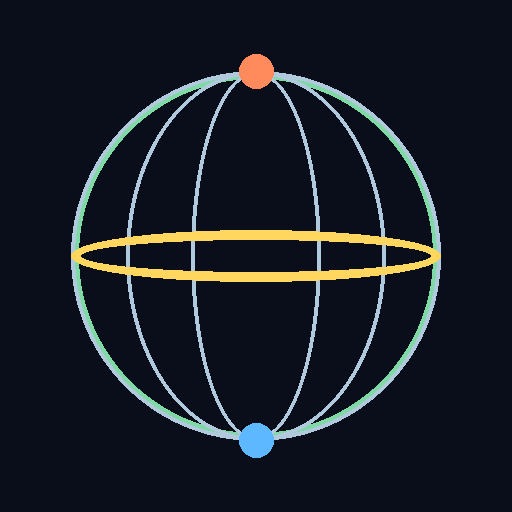
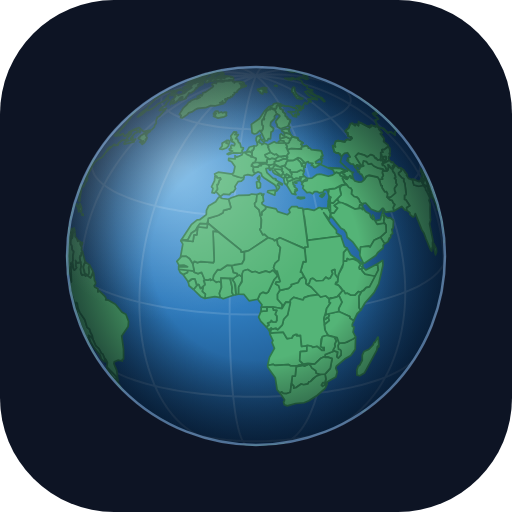
Icono de globo terracueo y capturas de pantalla
- Reemplaza los iconos por un globo terrestre: mismo motor de proyeccion
  ortografica de la app, continents generados desde RINGS_RAW
- Nuevo icon-512-maskable.png con la zona segura de Android; el manifiesto
  ya no declara el mismo archivo como any y maskable a la vez
- sw.js: cache v2 + el asset nuevo en ASSETS
- README: seccion de capturas y tabla de archivos al dia

diff --git a/sw.js b/sw.js
@@ -1,5 +1,5 @@
-const CACHE = 'eje-terrestre-v1';
-const ASSETS = ['./index.html', './manifest.json', './icon-180.png', './icon-192.png', './icon-512.png'];
+const CACHE = 'eje-terrestre-v2';
+const ASSETS = ['./index.html', './manifest.json', './icon-180.png', './icon-192.png', './icon-512.png', './icon-512-maskable.png'];
 
 self.addEventListener('install', e=>{
   e.waitUntil(caches.open(CACHE).then(c=>c.addAll(ASSETS)));

diff --git a/README.md b/README.md
@@ -13,6 +13,28 @@ Eliges un punto (tocando el mapa o con los selectores) y la app recalcula la geo
 - **Tabla de ciudades:** para 14 ciudades, muestra la latitud actual y la latitud en el mundo reordenado, ordenadas de norte a sur. Marca en color cuál queda más cerca del nuevo Polo Norte, del nuevo Polo Sur y del nuevo ecuador.
 - **Panel lateral:** 51 lugares predefinidos para fijar el nuevo Polo Norte, el nuevo Polo Sur, o un punto que deba quedar sobre el nuevo ecuador. Los tres son el mismo cálculo en direcciones distintas: al elegir uno, los otros dos se resincronizan solos.
 
+## Capturas
+
+**1 · Elige el nuevo Polo Norte** — toca el mapa o usa el panel lateral.
+
+<img src="poleshift1.png" width="860" alt="Mapa del mundo con el punto del nuevo Polo Norte marcado">
+
+**2 · El mundo reordenado** — el globo gira con el ecuador, los polos y las costas ya recalculados.
+
+<img src="poleshift2.png" width="640" alt="Globo 3D con la geografía reordenada según el eje elegido">
+
+**3 · Las coordenadas y la tabla de ciudades** — el nuevo polo norte y su antípoda con sus coordenadas actuales, y las 14 ciudades con la latitud que les tocaría en el mundo nuevo.
+
+<img src="poleshift3.png" width="860" alt="Panel de coordenadas y tabla de ciudades ordenada de norte a sur">
+
+**4 · Fijar el eje desde el panel** — los tres selectores (norte, sur, punto sobre el ecuador) se resincronizan entre sí.
+
+<img src="poleshift4.png" width="640" alt="Panel lateral con los selectores de polo norte, polo sur y ecuador">
+
+**5 · Instalada en el móvil** — a pantalla completa, con el diseño de una sola columna.
+
+<img src="poleshift5.png" width="420" alt="La app instalada en un teléfono, a pantalla completa">
+
 ## Cómo funciona
 
 No hay ninguna librería de mapas. Todo son coordenadas cartesianas 3D sobre la esfera y trigonometría.
@@ -80,8 +102,10 @@ Los tres arrays están al principio del `<script>`: editar la geografía es edit
 |---|---|
 | `index.html` | Toda la app: HTML, CSS, lógica, datos y los tres canvas de dibujo. 513 líneas, cero dependencias. |
 | `manifest.json` | Manifiesto PWA: nombre, icono, pantalla fija en retrato, colores. |
-| `sw.js` | Service worker: cachea los 5 assets para uso sin conexión. |
-| `icon-{180,192,512}.png` | Iconos de la app. |
+| `sw.js` | Service worker: cachea los assets para uso sin conexión. |
+| `icon-{180,192,512}.png` | Iconos de la app: globo terráqueo con los contornos reales del planeta. El 180 va opaco para iOS, el 192/512 con esquinas redondeadas. |
+| `icon-512-maskable.png` | Variante *maskable* para Android: fondo a sangre y globo al 60 %, dentro de la zona segura. |
+| `poleshift{1..5}.png` | Capturas de pantalla usadas más arriba. |
 
 ## Ejecutar
 
